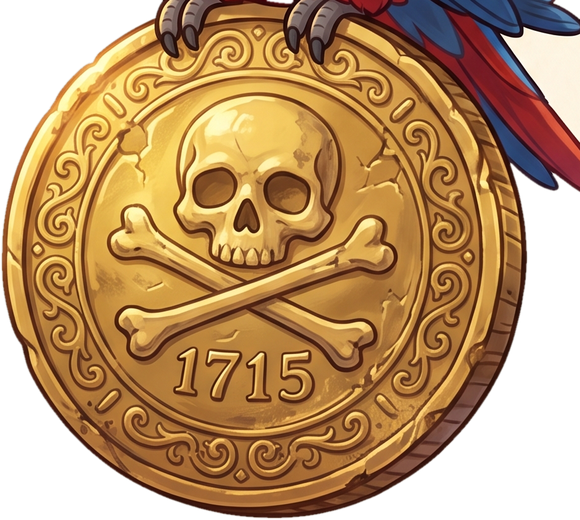
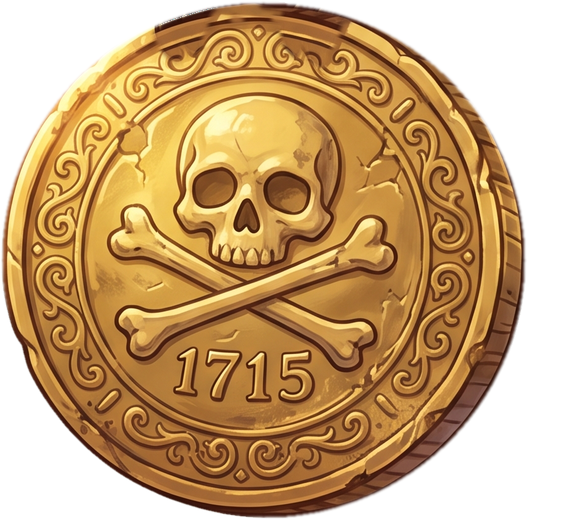
fix: Ver59.5 航海のコインの絵に写り込んでいたオウムの足と羽を消す

diff --git a/game.html b/game.html
@@ -3,7 +3,7 @@
 <head>
     <meta charset="UTF-8">
     <meta name="viewport" content="width=device-width, initial-scale=1.0, maximum-scale=1.0, user-scalable=no">
-    <script src="assets/js/no-zoom.js?v=59.4"></script>
+    <script src="assets/js/no-zoom.js?v=59.5"></script>
     <meta name="theme-color" content="#060d16">
     <meta name="apple-mobile-web-app-capable" content="yes">
     <meta name="apple-mobile-web-app-status-bar-style" content="default">
@@ -12,8 +12,8 @@
     <link rel="manifest" href="manifest.json">
     <link rel="apple-touch-icon" href="assets/icon.png?v=2" sizes="1024x1024">
     <link rel="icon" type="image/png" href="assets/icon.png?v=2">
-    <link rel="stylesheet" href="assets/css/style.css?v=59.4">
-    <script src="assets/js/treasure-rain.js?v=59.4" defer></script>
+    <link rel="stylesheet" href="assets/css/style.css?v=59.5">
+    <script src="assets/js/treasure-rain.js?v=59.5" defer></script>
 </head>
 <body>
     <header class="hero hero-compact" data-scene="tavern">
@@ -746,19 +746,19 @@
     <script src="https://www.gstatic.com/firebasejs/10.13.2/firebase-firestore-compat.js"></script>
     <script src="https://www.gstatic.com/firebasejs/10.13.2/firebase-storage-compat.js"></script>
     <script src="assets/js/firebase-config.js"></script>
-    <script src="assets/js/common.js?v=59.4"></script>
-    <script src="assets/js/game-sound.js?v=59.4"></script>
-    <script src="assets/js/game-blackjack.js?v=59.4"></script>
-    <script src="assets/js/game-slot.js?v=59.4"></script>
-    <script src="assets/js/game-gappori.js?v=59.4"></script>
-    <script src="assets/js/game-nariagari.js?v=59.4"></script>
-    <script src="assets/js/voyage-story.js?v=59.4"></script>
-    <script src="assets/js/game-voyage.js?v=59.4"></script>
-    <script src="assets/js/game-sink.js?v=59.4"></script>
-    <script src="assets/js/game-underground.js?v=59.4"></script>
-    <script src="assets/js/game-wanted.js?v=59.4"></script>
-    <script src="assets/js/game-shop.js?v=59.4"></script>
-    <script src="assets/js/game-hl.js?v=59.4"></script>
-    <script src="assets/js/game.js?v=59.4"></script>
+    <script src="assets/js/common.js?v=59.5"></script>
+    <script src="assets/js/game-sound.js?v=59.5"></script>
+    <script src="assets/js/game-blackjack.js?v=59.5"></script>
+    <script src="assets/js/game-slot.js?v=59.5"></script>
+    <script src="assets/js/game-gappori.js?v=59.5"></script>
+    <script src="assets/js/game-nariagari.js?v=59.5"></script>
+    <script src="assets/js/voyage-story.js?v=59.5"></script>
+    <script src="assets/js/game-voyage.js?v=59.5"></script>
+    <script src="assets/js/game-sink.js?v=59.5"></script>
+    <script src="assets/js/game-underground.js?v=59.5"></script>
+    <script src="assets/js/game-wanted.js?v=59.5"></script>
+    <script src="assets/js/game-shop.js?v=59.5"></script>
+    <script src="assets/js/game-hl.js?v=59.5"></script>
+    <script src="assets/js/game.js?v=59.5"></script>
 </body>
 </html>

diff --git a/index.html b/index.html
@@ -3,7 +3,7 @@
 <head>
     <meta charset="UTF-8">
     <meta name="viewport" content="width=device-width, initial-scale=1.0, maximum-scale=1.0, user-scalable=no">
-    <script src="assets/js/no-zoom.js?v=59.4"></script>
+    <script src="assets/js/no-zoom.js?v=59.5"></script>
     <meta name="theme-color" content="#060d16">
     <meta name="apple-mobile-web-app-capable" content="yes">
     <meta name="apple-mobile-web-app-status-bar-style" content="default">
@@ -12,9 +12,9 @@
     <link rel="manifest" href="manifest.json">
     <link rel="apple-touch-icon" href="assets/icon.png?v=2" sizes="1024x1024">
     <link rel="icon" type="image/png" href="assets/icon.png?v=2">
-    <link rel="stylesheet" href="assets/css/style.css?v=59.4">
-    <script src="assets/js/header-clock.js?v=59.4" defer></script>
-    <script src="assets/js/treasure-rain.js?v=59.4" defer></script>
+    <link rel="stylesheet" href="assets/css/style.css?v=59.5">
+    <script src="assets/js/header-clock.js?v=59.5" defer></script>
+    <script src="assets/js/treasure-rain.js?v=59.5" defer></script>
 </head>
 <body>
     <header class="hero" data-scene="battle">
@@ -141,9 +141,9 @@
     <script src="https://www.gstatic.com/firebasejs/10.13.2/firebase-firestore-compat.js"></script>
     <script src="https://www.gstatic.com/firebasejs/10.13.2/firebase-storage-compat.js"></script>
     <script src="assets/js/firebase-config.js"></script>
-    <script src="assets/js/common.js?v=59.4"></script>
-    <script src="assets/js/home-captain.js?v=59.4"></script>
-    <script src="assets/js/main.js?v=59.4"></script>
-    <script src="assets/js/rate-chart.js?v=59.4"></script>
+    <script src="assets/js/common.js?v=59.5"></script>
+    <script src="assets/js/home-captain.js?v=59.5"></script>
+    <script src="assets/js/main.js?v=59.5"></script>
+    <script src="assets/js/rate-chart.js?v=59.5"></script>
 </body>
 </html>

diff --git a/voyage-demo.html b/voyage-demo.html
@@ -3,12 +3,12 @@
 <head>
     <meta charset="UTF-8">
     <meta name="viewport" content="width=device-width, initial-scale=1.0, maximum-scale=1.0, user-scalable=no">
-    <script src="assets/js/no-zoom.js?v=59.4"></script>
+    <script src="assets/js/no-zoom.js?v=59.5"></script>
     <meta name="theme-color" content="#060d16">
     <meta name="robots" content="noindex">
     <title>航海 デモ</title>
     <link rel="icon" type="image/png" href="assets/icon.png?v=2">
-    <link rel="stylesheet" href="assets/css/style.css?v=59.4">
+    <link rel="stylesheet" href="assets/css/style.css?v=59.5">
 </head>
 <body>
     <!-- 航海 (大海賊の航海日誌) の第1章だけを試せるデモ。本番の game.html#voyage と同じ画面・同じ演出で、
@@ -111,11 +111,11 @@
         </nav>
     </footer>
 
-    <script src="assets/js/common.js?v=59.4"></script>
-    <script src="assets/js/game-sound.js?v=59.4"></script>
-    <script src="assets/js/game-slot.js?v=59.4"></script>
-    <script src="assets/js/voyage-story.js?v=59.4"></script>
-    <script src="assets/js/game-voyage.js?v=59.4"></script>
-    <script src="assets/js/voyage-demo.js?v=59.4"></script>
+    <script src="assets/js/common.js?v=59.5"></script>
+    <script src="assets/js/game-sound.js?v=59.5"></script>
+    <script src="assets/js/game-slot.js?v=59.5"></script>
+    <script src="assets/js/voyage-story.js?v=59.5"></script>
+    <script src="assets/js/game-voyage.js?v=59.5"></script>
+    <script src="assets/js/voyage-demo.js?v=59.5"></script>
 </body>
 </html>

diff --git a/mypage.html b/mypage.html
@@ -3,7 +3,7 @@
 <head>
     <meta charset="UTF-8">
     <meta name="viewport" content="width=device-width, initial-scale=1.0, maximum-scale=1.0, user-scalable=no">
-    <script src="assets/js/no-zoom.js?v=59.4"></script>
+    <script src="assets/js/no-zoom.js?v=59.5"></script>
     <meta name="theme-color" content="#060d16">
     <meta name="apple-mobile-web-app-capable" content="yes">
     <meta name="apple-mobile-web-app-status-bar-style" content="default">
@@ -17,8 +17,8 @@
             document.documentElement.classList.add('auth-pending');
         }
     </script>
-    <link rel="stylesheet" href="assets/css/style.css?v=59.4">
-    <script src="assets/js/treasure-rain.js?v=59.4" defer></script>
+    <link rel="stylesheet" href="assets/css/style.css?v=59.5">
+    <script src="assets/js/treasure-rain.js?v=59.5" defer></script>
 </head>
 <body>
     <header class="hero hero-compact" data-scene="treasure">
@@ -267,7 +267,7 @@
     <script src="https://www.gstatic.com/firebasejs/10.13.2/firebase-storage-compat.js"></script>
     <script src="https://www.gstatic.com/firebasejs/10.13.2/firebase-messaging-compat.js"></script>
     <script src="assets/js/firebase-config.js"></script>
-    <script src="assets/js/common.js?v=59.4"></script>
-    <script src="assets/js/mypage.js?v=59.4"></script>
+    <script src="assets/js/common.js?v=59.5"></script>
+    <script src="assets/js/mypage.js?v=59.5"></script>
 </body>
 </html>

diff --git a/admin.html b/admin.html
@@ -3,12 +3,12 @@
 <head>
     <meta charset="UTF-8">
     <meta name="viewport" content="width=device-width, initial-scale=1.0, maximum-scale=1.0, user-scalable=no">
-    <script src="assets/js/no-zoom.js?v=59.4"></script>
+    <script src="assets/js/no-zoom.js?v=59.5"></script>
     <meta name="theme-color" content="#060d16">
     <title>マスター管理ページ</title>
     <link rel="icon" type="image/png" href="assets/icon.png?v=2">
-    <link rel="stylesheet" href="assets/css/style.css?v=59.4">
-    <script src="assets/js/treasure-rain.js?v=59.4" defer></script>
+    <link rel="stylesheet" href="assets/css/style.css?v=59.5">
+    <script src="assets/js/treasure-rain.js?v=59.5" defer></script>
 </head>
 <body>
     <header class="hero hero-compact" data-scene="jail">
@@ -438,7 +438,7 @@
     <script src="https://www.gstatic.com/firebasejs/10.13.2/firebase-firestore-compat.js"></script>
     <script src="https://www.gstatic.com/firebasejs/10.13.2/firebase-storage-compat.js"></script>
     <script src="assets/js/firebase-config.js"></script>
-    <script src="assets/js/common.js?v=59.4"></script>
-    <script src="assets/js/master.js?v=59.4"></script>
+    <script src="assets/js/common.js?v=59.5"></script>
+    <script src="assets/js/master.js?v=59.5"></script>
 </body>
 </html>

diff --git a/anniversary.html b/anniversary.html
@@ -3,11 +3,11 @@
 <head>
     <meta charset="UTF-8">
     <meta name="viewport" content="width=device-width, initial-scale=1.0, maximum-scale=1.0, user-scalable=no">
-    <script src="assets/js/no-zoom.js?v=59.4"></script>
+    <script src="assets/js/no-zoom.js?v=59.5"></script>
     <title>Q-Jong 1st Anniversary</title>
     <link rel="apple-touch-icon" href="assets/icon.png?v=2" sizes="1024x1024">
     <link rel="icon" type="image/png" href="assets/icon.png?v=2">
-    <link rel="stylesheet" href="assets/css/style.css?v=59.4">
+    <link rel="stylesheet" href="assets/css/style.css?v=59.5">
     <link rel="stylesheet" href="assets/css/special.css">
     <style>
         /* ============================================================

diff --git a/name.html b/name.html
@@ -3,7 +3,7 @@
 <head>
 <meta charset="UTF-8">
 <meta name="viewport" content="width=device-width, initial-scale=1.0, maximum-scale=1.0, user-scalable=no">
-<script src="assets/js/no-zoom.js?v=59.4"></script>
+<script src="assets/js/no-zoom.js?v=59.5"></script>
 <title>Q-Jong Digital Owner's Card</title>
 <style>
   @import url('https://fonts.googleapis.com/css2?family=Cormorant+Garamond:wght@300;400;600&family=Montserrat:wght@100;200;300;400&display=swap');

diff --git a/README.md b/README.md
@@ -1,4 +1,4 @@
-# jong　　Ver59.4
+# jong　　Ver59.5
 
 **1.1** 麻雀得点管理アプリリリース
 
@@ -529,3 +529,5 @@ iOS アプリは `app/` (Capacitor。中身は本番のサイト https://q-jong.
 **59.3** High&Low で1回ごとに出ていた「当たり！」「はずれ…」のお知らせを消した (当たり・はずれは卓の印とディーラーの表情で見せる。10回終わったときの結果の知らせは残す)。デプロイは hosting
 
 **59.4** ランキングのトークンを、1つの絵と「×N」から、持っている数だけトークンの絵を並べる形にした (2つ目からは少し重ねる)。デプロイは hosting
+
+**59.5** 航海のコインの絵 (assets/img/voyage/coin.png。ゲーム一覧の航海のカードと、盤の「呪いの金貨」のマス) に、切り出したときのオウムの足と羽が写り込んでいたのを直した。コインの楕円の外を透明にし、上のふちにかかっていた足の部分は、下のふちを上下に折り返した模様で埋めた (直す前の絵は assets/img/src/voyage/original-coin.png)。デプロイは hosting
